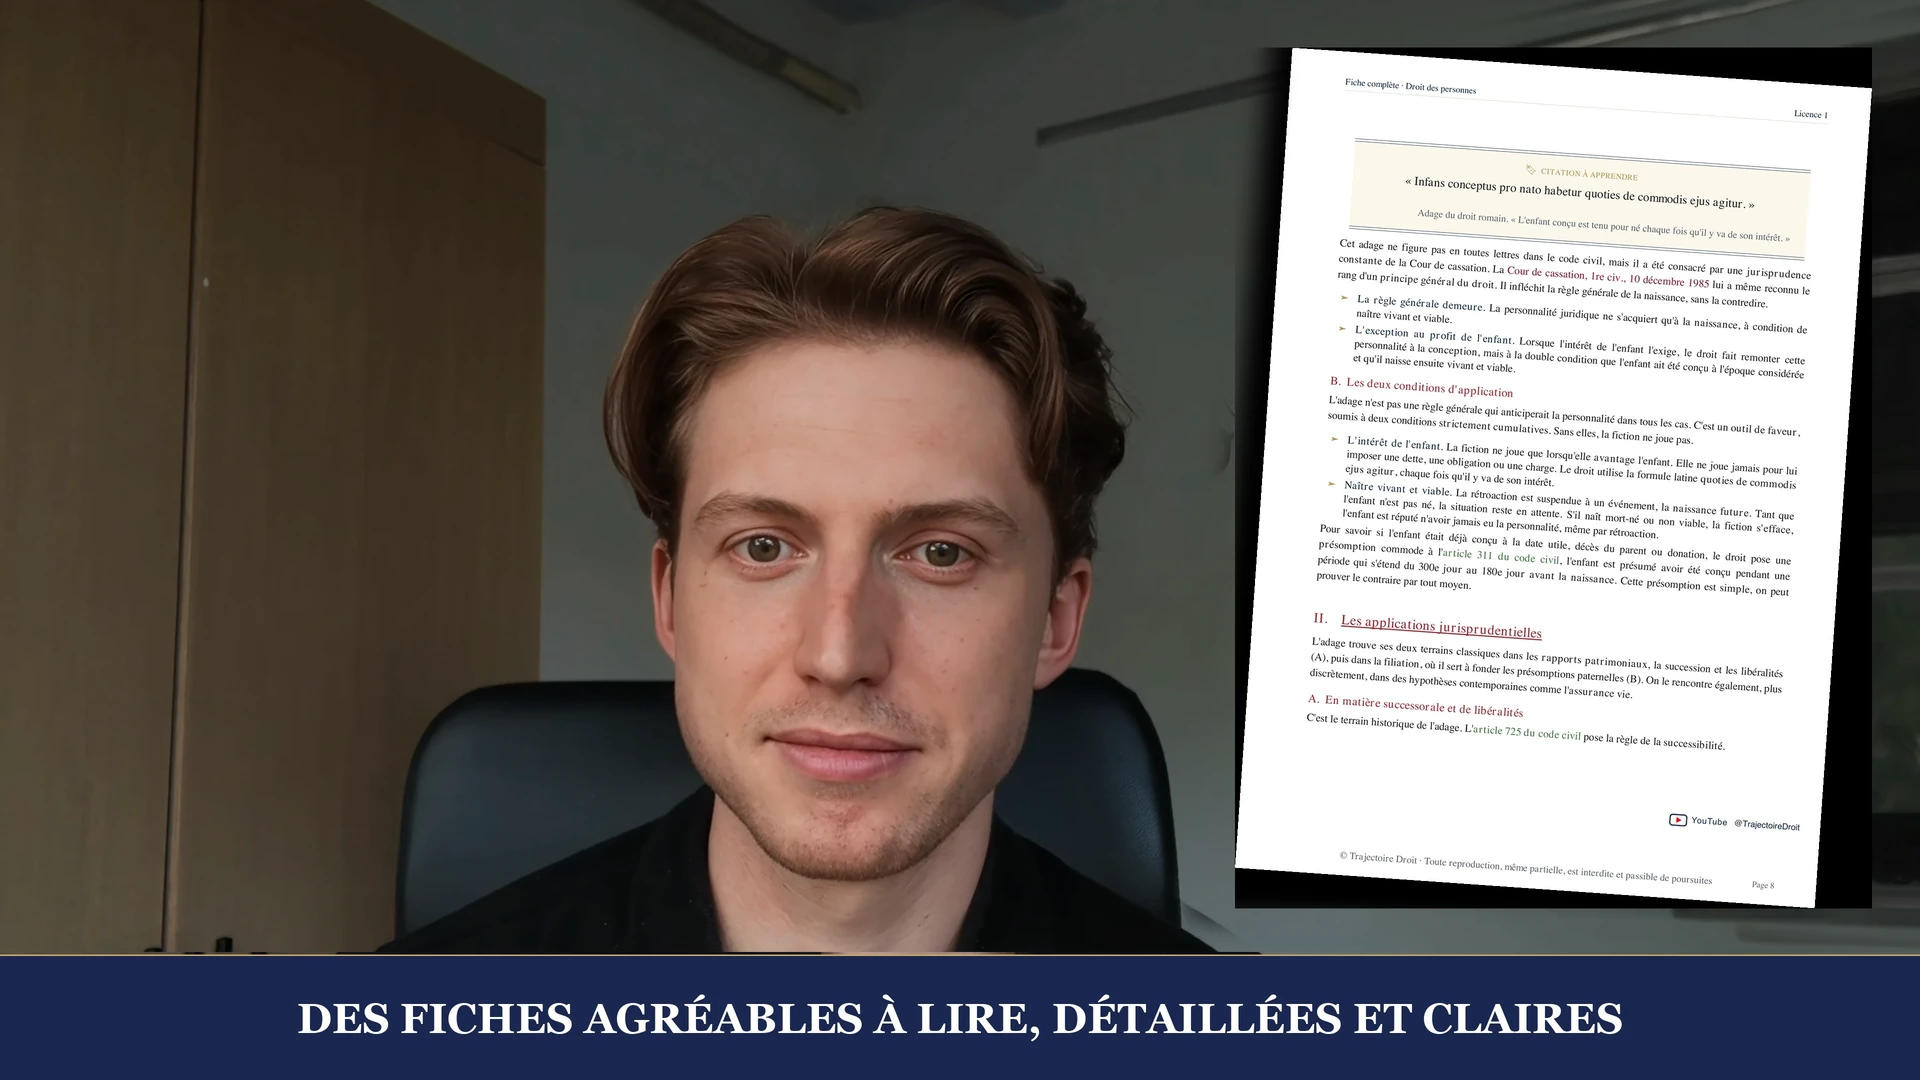
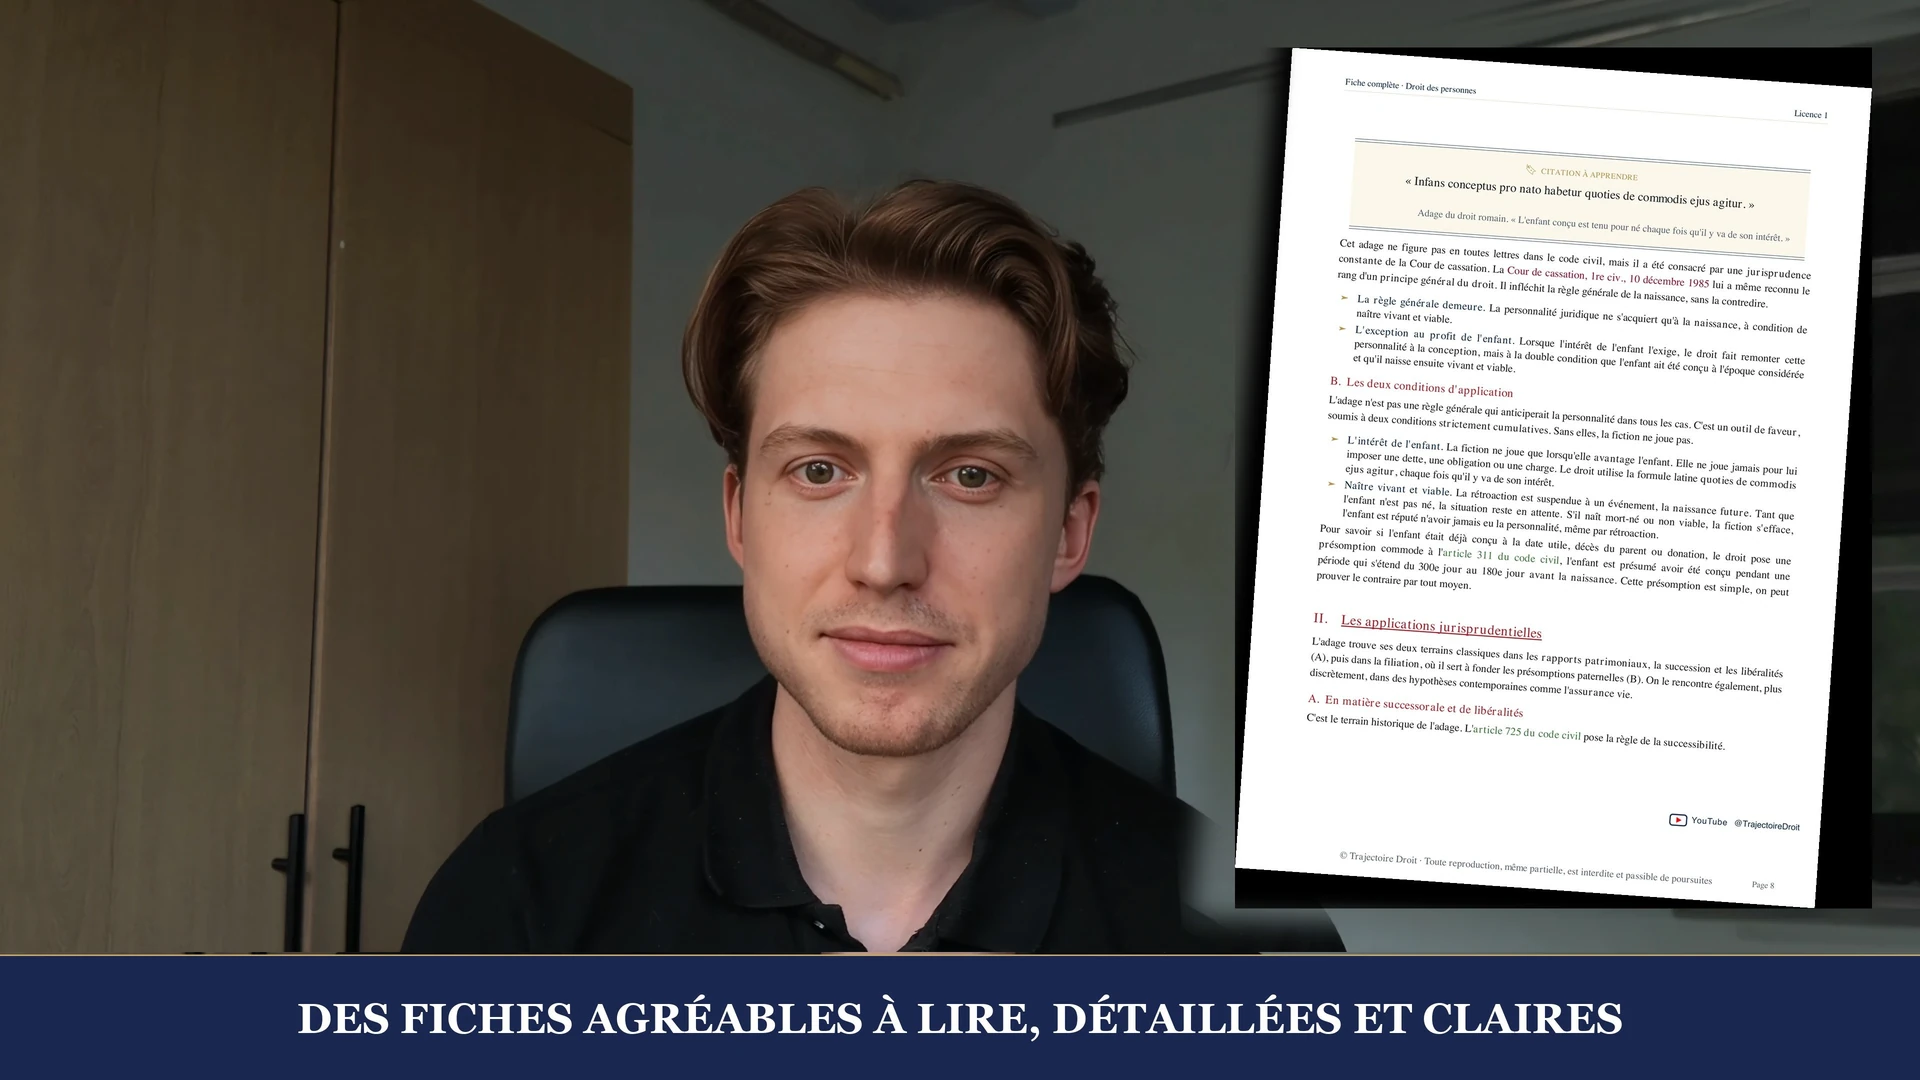
Dézoomer la miniature de la vidéo d'accueil

diff --git a/index.html b/index.html
@@ -358,7 +358,7 @@
                 <video class="fiche-preview__video"
                        controls
                        preload="metadata"
-                       poster="assets/hero-video-produits-poster.webp?v=57325610">
+                       poster="assets/hero-video-produits-poster.webp?v=da0816b4">
                   <source src="https://pub-45b53167be7548aca62650d34a771b47.r2.dev/tjd/video/vue-ensemble-produits.mp4" type="video/mp4">
                 </video>
               </div>
